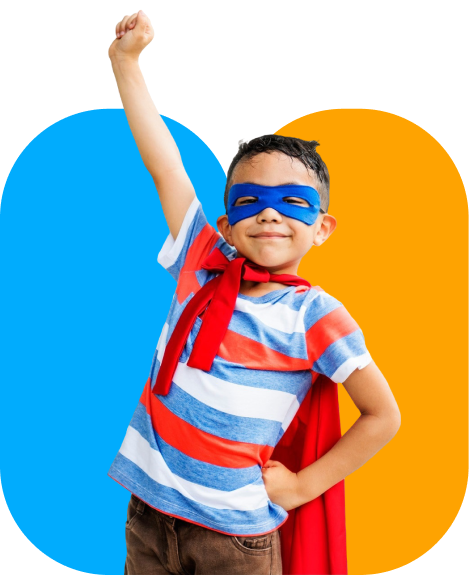
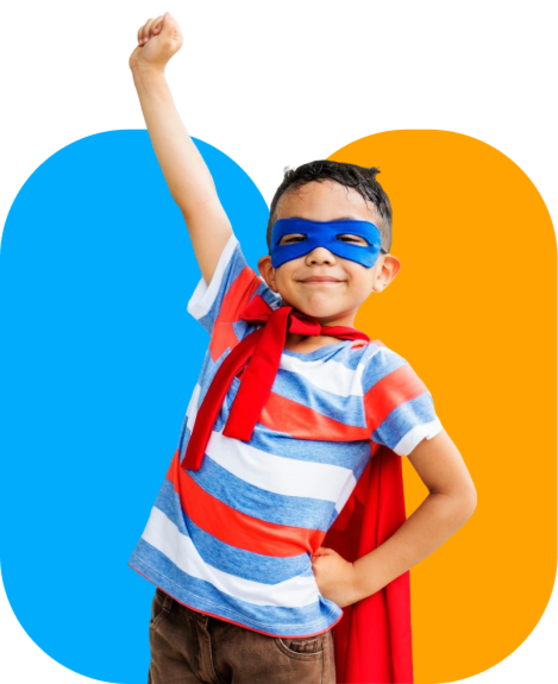
Adding hero part

diff --git a/index.html b/index.html
@@ -4,8 +4,64 @@
     <meta charset="UTF-8">
     <meta name="viewport" content="width=device-width, initial-scale=1.0">
     <title>Kids School</title>
+    <link rel="stylesheet" href="styles/kids.css">
 </head>
-<body>
-    
+<body class="quicksand-font">
+    <header>
+        <div class="nav-container">
+            <div class="logo-school">
+                <img class="bag" src="assets/logo.png" alt="">
+                <h3 class="nav-scl">SCHOOL</h3>
+            </div>
+            <div class="home-about medi-twen-font">
+                <h6 class="nav-home">Home</h6>
+                <h6 class="nav-about">About</h6>
+                <h6 class="nav-faci">Facilities</h6>
+                <h6 class="nav-add">Admission</h6>
+            </div>
+            <div>
+                <button class=" quicksand-font btn-primary">Contact</button>
+            </div>
+        </div>
+        <div class="banner">
+            <div class="banner-container">
+                <div class="hero-text">
+                    <h1 class="banner-title"><span id="empowering">Empowering</span>
+                     <span id="students">students from small age</span> <span id="vision">towards vision</span></h1>
+                    <p class="banner-des">With the courage, Confidence, Creativity and Compassion to make their Unique Contribution in a Diverse and Dynamic World.</p>
+                    <button class=" enroll-btn btn-primary quicksand-font">Enroll Now</button> 
+                </div>
+                <div class="hero-container">
+                    <img class="hero-img" src="assets/hero-kids.png" alt="">
+                </div>   
+            </div>
+        </div>
+    </header>
+    <section class="curriculam">
+        <h1 class="curri-title">Standard Curriculum</h1>
+        <div class="curri-cards">
+            <div class="curri-card1">
+                 <img src="assets/kinder.png" alt="">
+                 <p class="card-descrip">Cum sociis natoque penatibus et magnis
+                    dis parturient montes, nascetur ridiculus
+                    mu sdis parturient</p>
+                    <button class="btn-rmore">Read More</button>
+            </div>
+            <div class="curri-card2">
+                <img src="assets/elementary.png " alt="">
+                 <p class="card-descrip">Cum sociis natoque penatibus et magnis
+                    dis parturient montes, nascetur ridiculus
+                    mu sdis parturient</p>
+                    <button class="btn-rmore">Read More</button>
+            </div>
+            <div class="curri-card3">
+                <img src="assets/middle.png" alt="">
+                 <p class="card-descrip">Cum sociis natoque penatibus et magnis
+                    dis parturient montes, nascetur ridiculus
+                    mu sdis parturient</p>
+                    <button class="btn-rmore">Read More</button>
+            </div>
+        </div>
+    </section>
 </body>
-</html>
+</html>          

diff --git a/styles/kids.css b/styles/kids.css
@@ -1,0 +1,153 @@
+@import url('https://fonts.googleapis.com/css2?family=Quicksand:wght@300..700&family=Work+Sans:ital,wght@0,100..900;1,100..900&display=swap');
+
+.quicksand-font {
+    font-family: "Quicksand", serif;
+    font-optical-sizing: auto;
+    font-weight: 400;
+    font-style: normal;
+}
+
+html {
+    font-size: 16px;
+}
+
+/* *{
+    margin: 0;
+    padding: 0;
+    box-sizing: border-box;
+} */
+
+/* shared */
+
+.medi-twen-font{
+    font-size: 2rem;
+    font-weight: 400;
+}
+
+.btn-primary{
+    background-color: orange;
+    color: white;
+    padding: 20px 25px;
+    font-size: 1.5rem;
+    font-weight: 600;
+    border: none;
+    border-radius: 1.2rem;
+    width: 255px;
+}
+
+/* navbar styles */
+.logo-school{
+    display: flex;
+}
+
+.home-about{
+    display: flex;
+    gap: 0 3rem;
+    max-width: 460px;
+}
+
+.nav-container{
+    display: flex;
+    justify-content: space-between;
+    align-items: center;
+    max-width: 1380px;
+    margin: 0 auto;
+}
+
+.bag{
+    width: 68px;
+    height: 68px;
+    margin-top: 27px;
+}
+.nav-scl{
+    font-size: 2.5rem;
+    font-weight: 700;
+    margin-left: 12px;
+}
+
+.nav-home{
+    color: orange;
+}
+
+.nav-about{
+    color: rgb(111, 201, 237);
+}
+
+.nav-faci{
+    color: #05D4DF;
+}
+
+.nav-add{
+    color: #5D58EF;
+}
+
+/* banner styles */
+
+/* .banner{
+    background-image: url('./bg.png');
+} */
+
+.banner-container{
+    display: flex;
+    gap: 60px;
+    margin: 0 auto;
+    justify-content: space-between;
+    max-width: 1380px;
+}
+
+.banner-title{
+    line-height: 4.2rem;
+}
+.banner-des{
+    font-size: 1.5rem;
+    color: black;
+    margin-top: -15px;
+}
+
+.hero-text{
+    /* margin: auto 0; */
+    max-width: 760px;
+    margin: auto 0;
+}
+
+.hero-img{
+    max-width:100%;
+    max-height: auto;
+}
+
+.hero-img img{
+    width: 558px;
+    height: 684px;
+}
+
+.enroll-btn{
+    background-color: black;
+}
+
+#empowering{
+    color: orange;
+    font-weight: 700;
+    font-size: 4.3rem;
+}
+#students{
+    color: black;
+    font-weight: 700;
+    font-size: 4.3rem;
+}
+#vision{
+    color: #01ACFD;
+    font-weight: 700;
+    font-size: 4.3rem;
+}
+
+
+
+/* Curriculam related styles */
+
+.curriculam{
+    background-image: url('./bg.png');
+}
+
+.curri-title{
+    text-align: center;
+}
